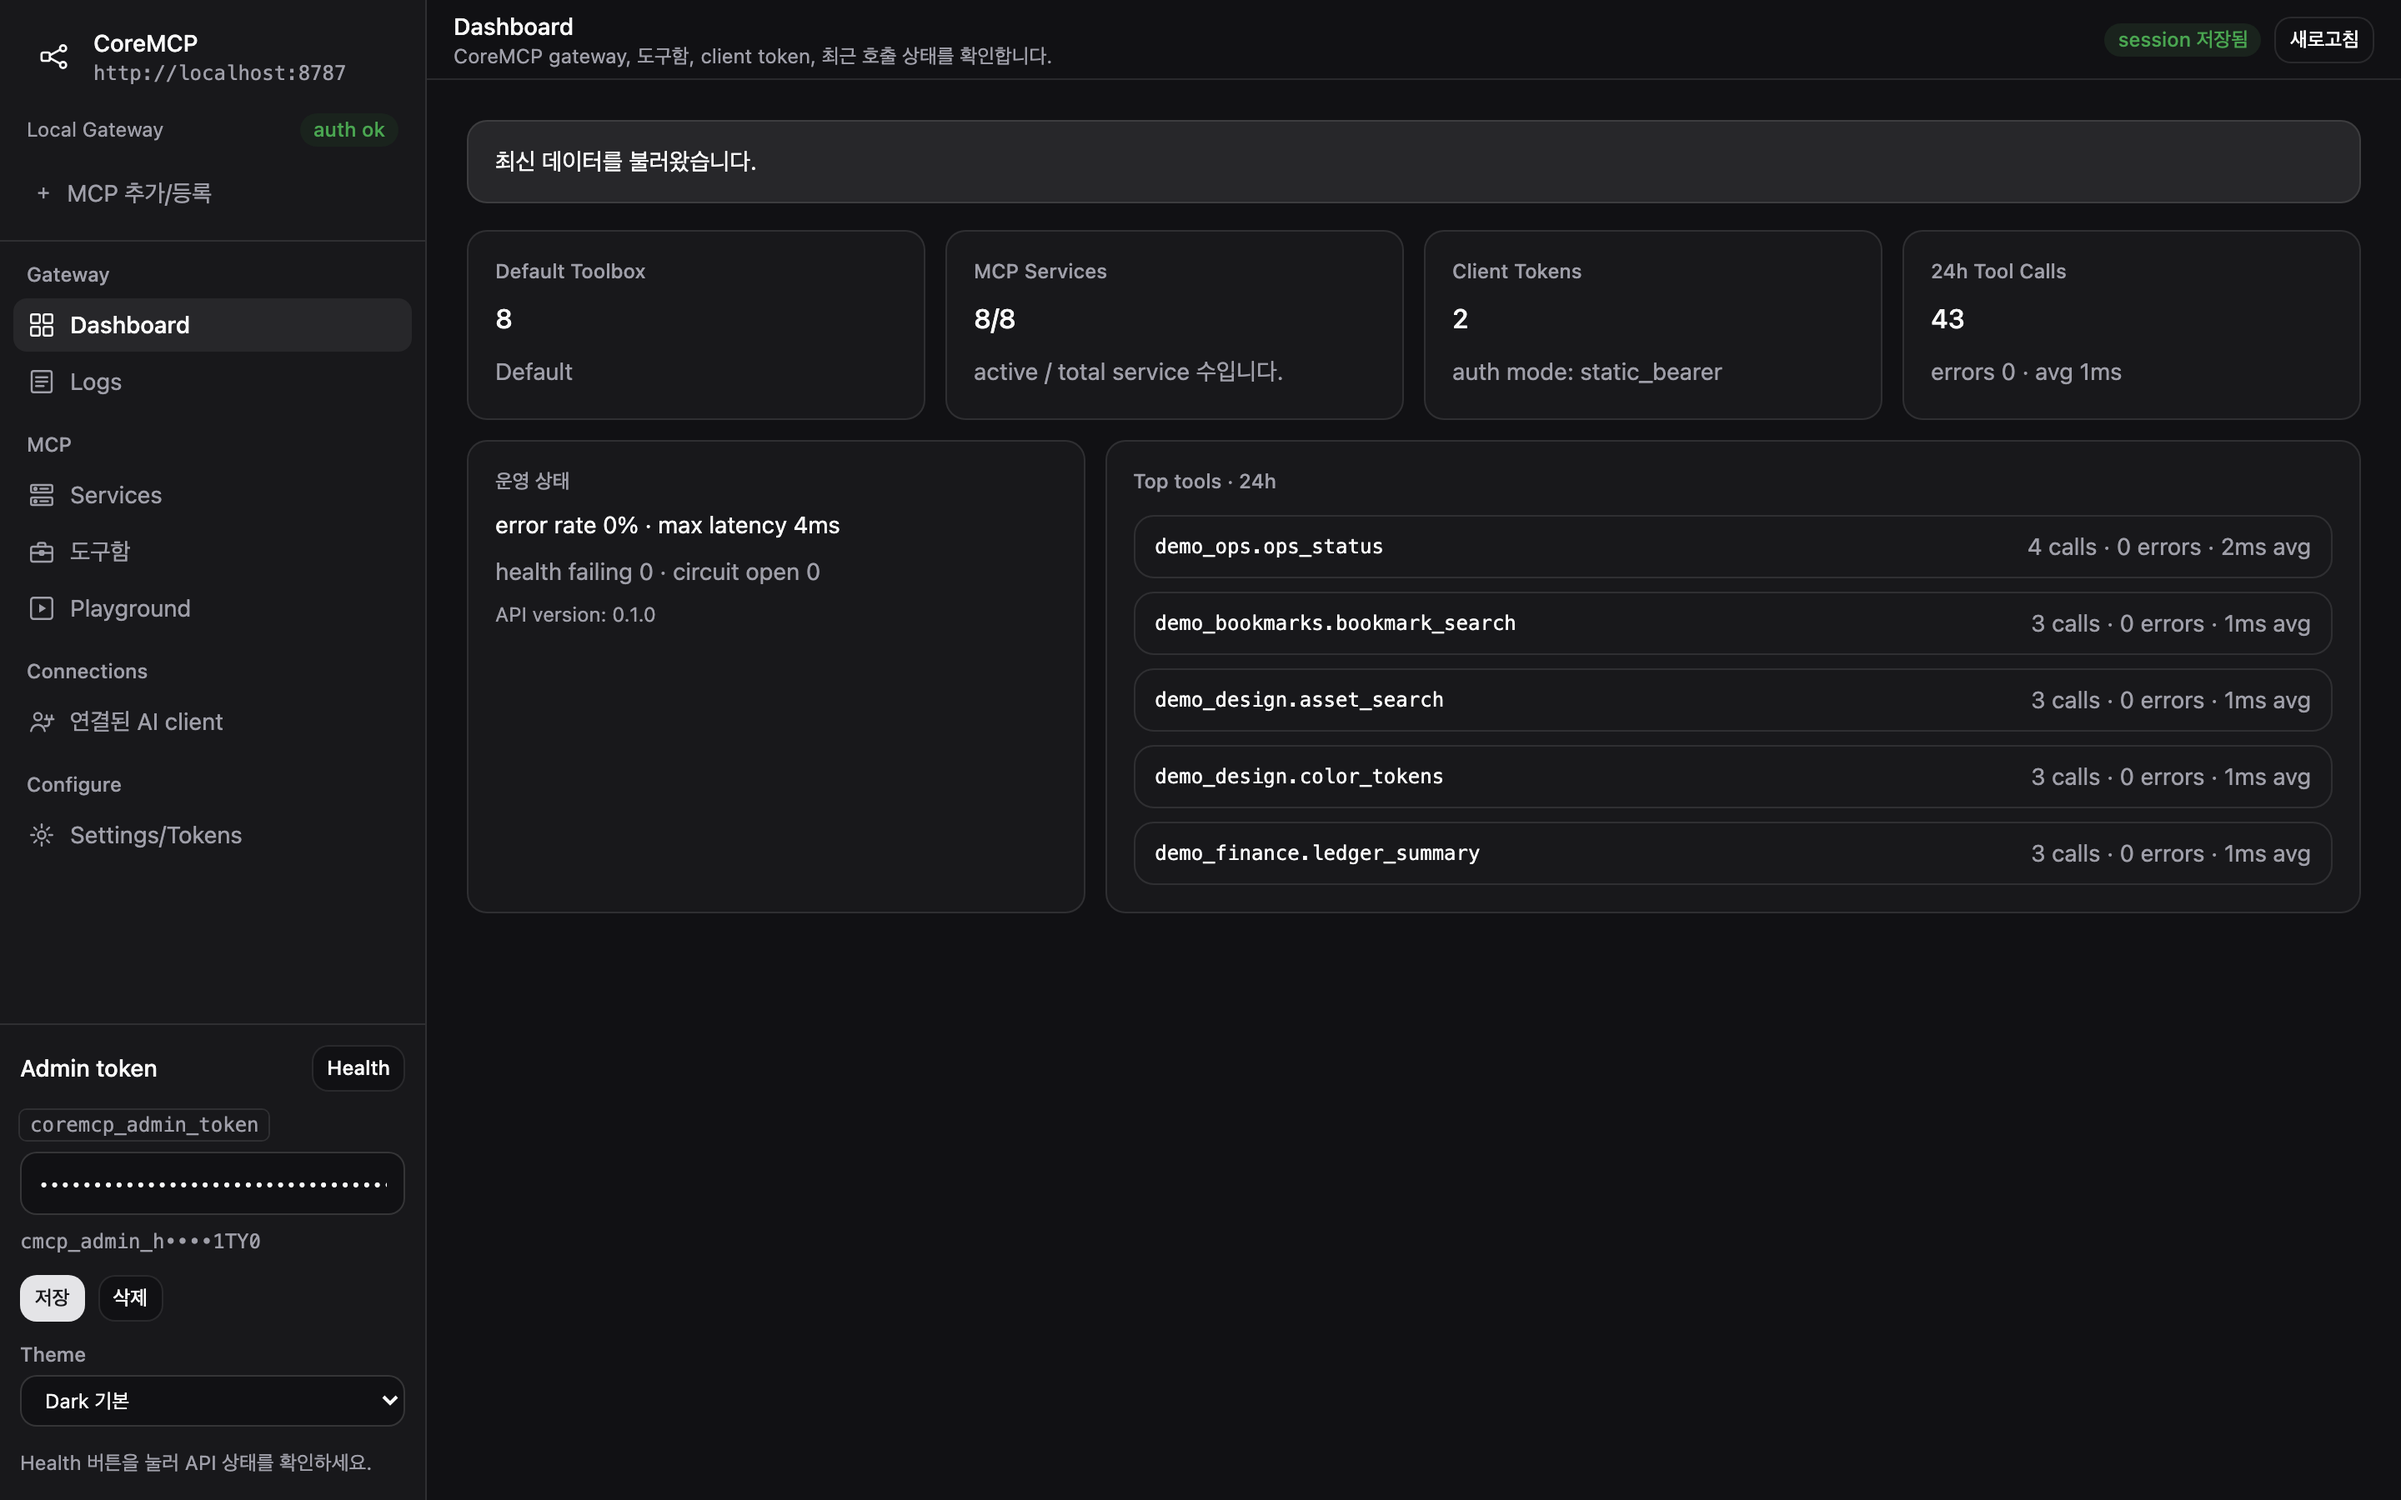
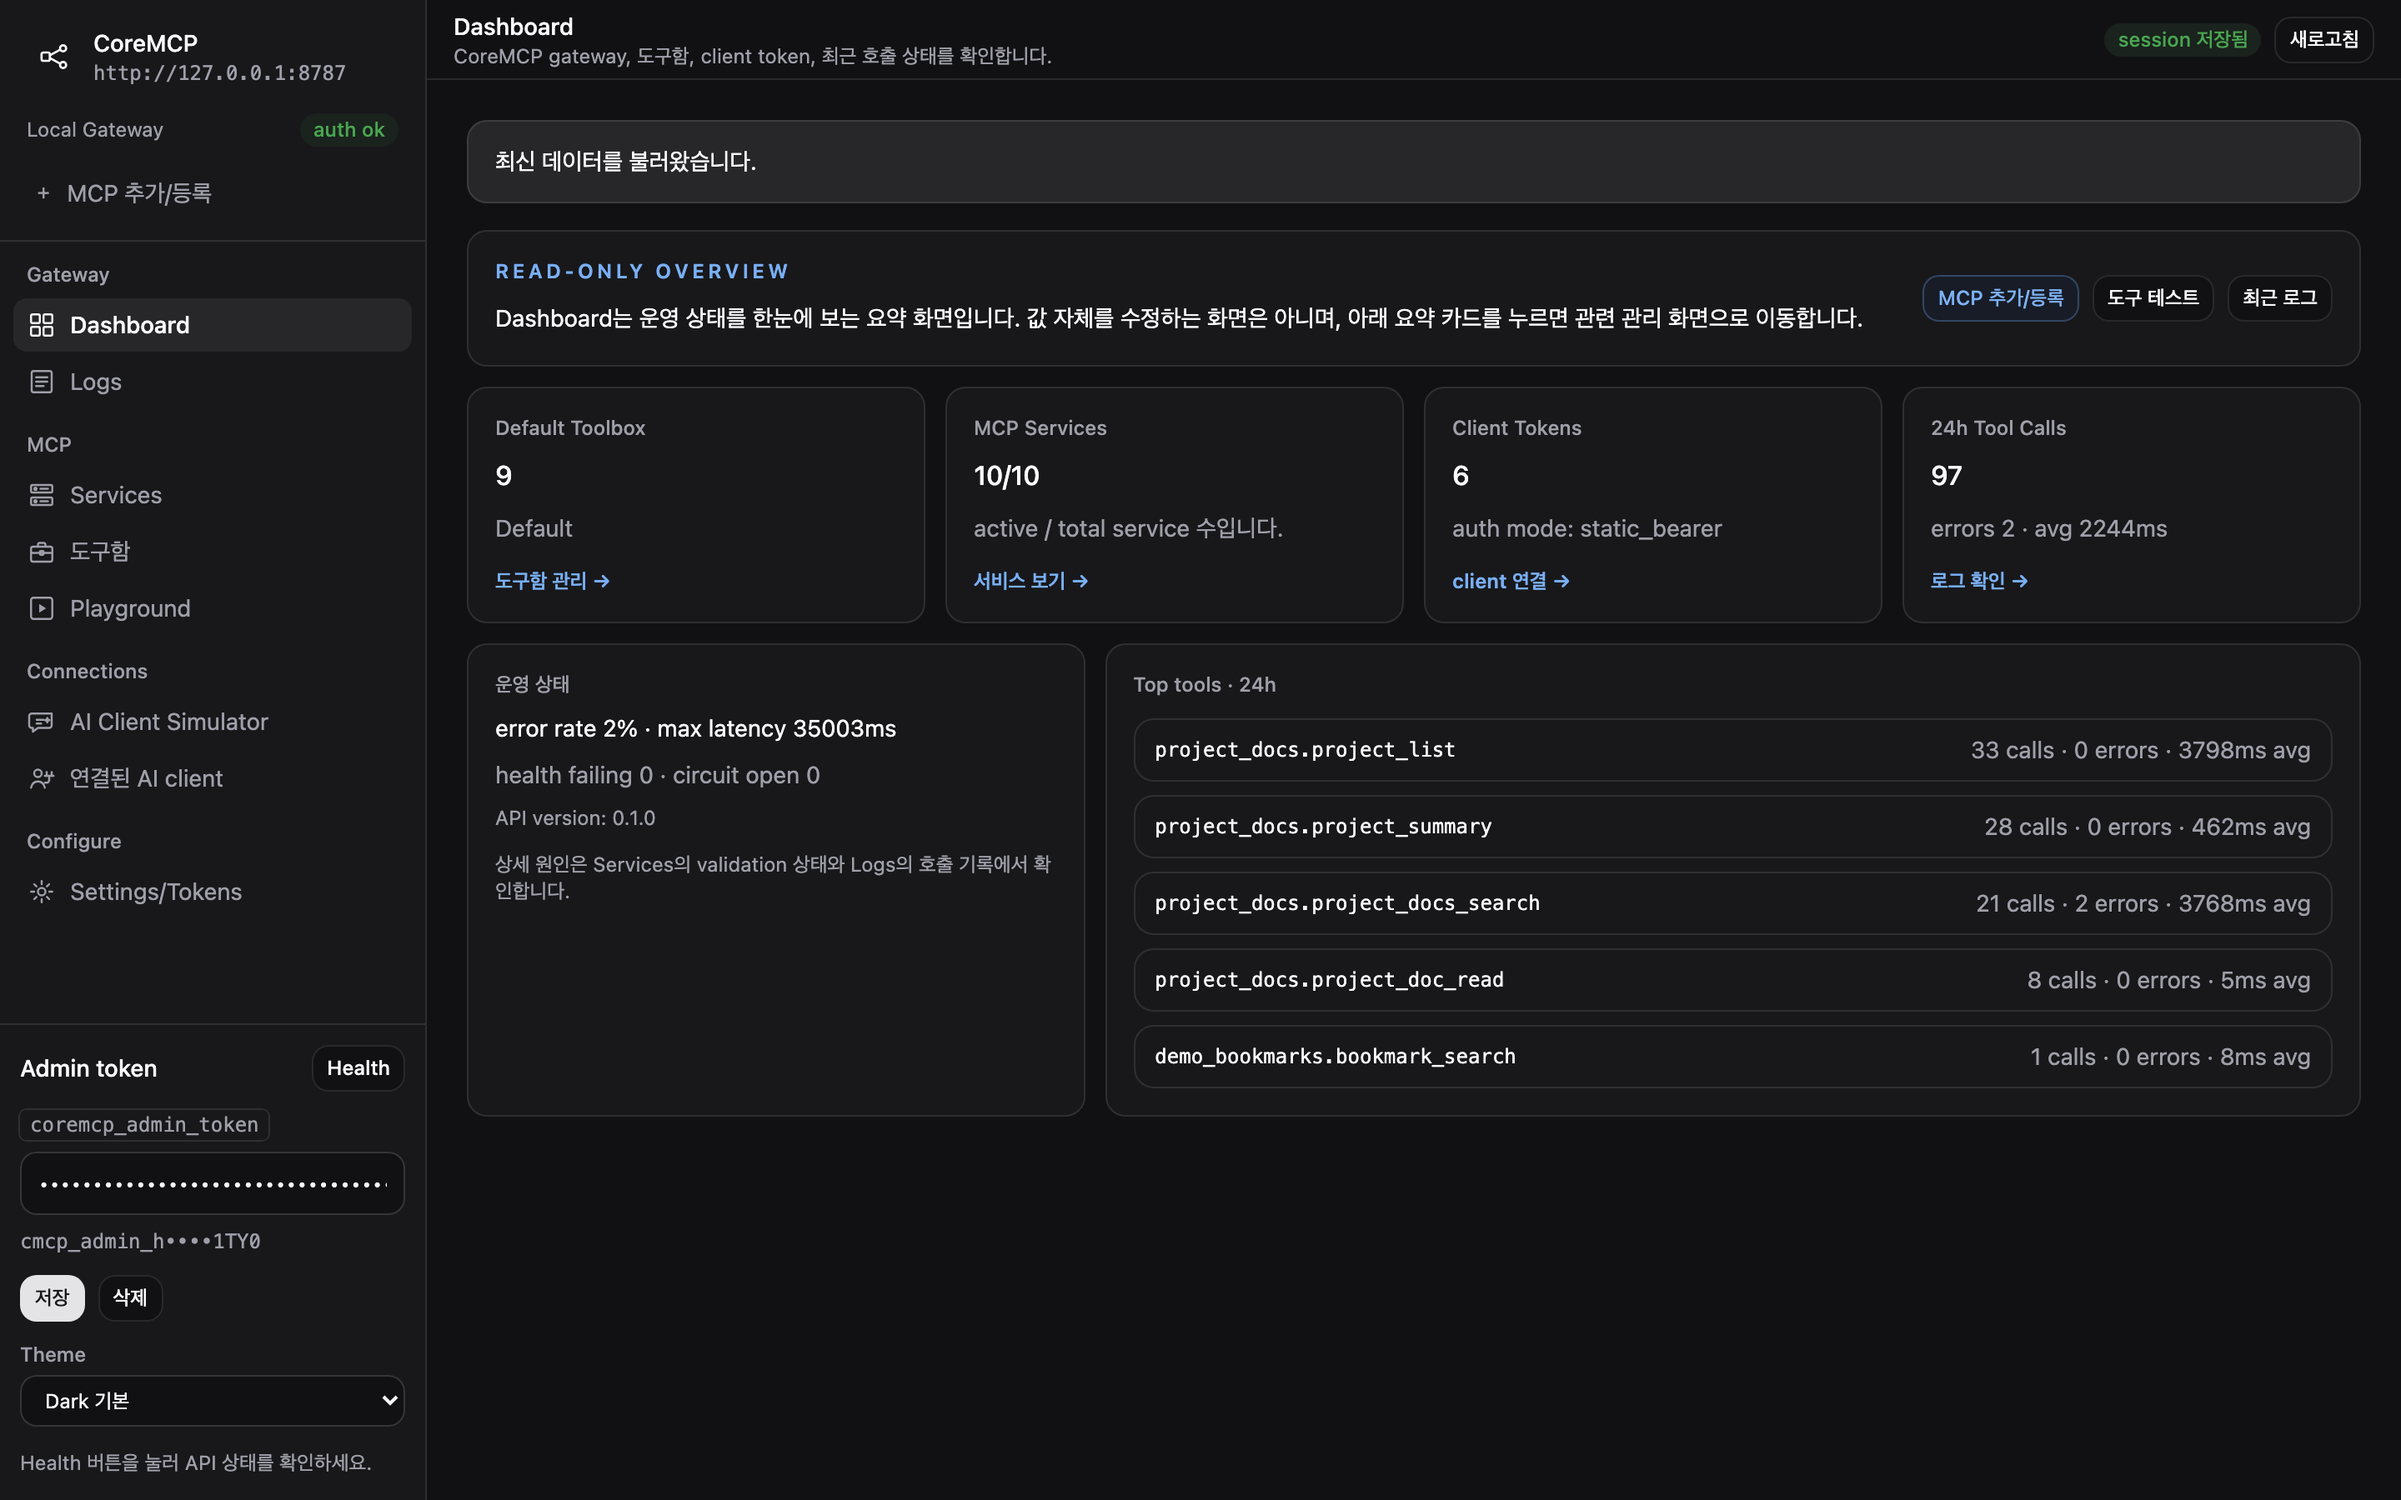
docs: refresh web admin screenshots and README sections
- Capture all 9 web admin pages at 2026-05-20 state with retina 2x viewport.
- Add new AI Client Simulator screen (#9) reflecting the new /simulator route,
  SimulatorIcon in the sidebar, and 3-pane Chat result · MCP Tool trace ·
  Run metadata layout.
- Refresh Dashboard, Clients, Logs, Settings descriptions to match the
  current GUI (READ-ONLY OVERVIEW + KPI deep-links, 3-step Connected
  Clients with MCP endpoint copy, two-pane invocation/audit cards with
  status filter, amber Settings warning).
- Bump Stabilization Batch Notes to 2026-05-20, note project-docs-mcp +
  simulator integration, update pytest count to 206 passed.
- Add icon prefix to top-of-readme sub-sections for consistency with the
  rest of the document.

diff --git a/README.md b/README.md
@@ -103,7 +103,7 @@ CoreMCP는 본인 1명이 Mac mini에서 운영하는 protected MCP gateway다. 
 | 외부환경 검증 필요 | actual macOS reboot recovery, Tailscale CLI install/login/Serve/ACL smoke, real external OAuth client compatibility, 실제 모바일 visual QA, long soak — `make external-env-validate`, `make mobile-qa-checklist`, `make soak-check`로 운영 host에서 결과 기록 |
 | 선택 Polish | Web Admin UX polish, 관측 dashboard/metric tuning, proactive health probe tuning은 지속 개선 대상 |
 
-### 🛠 Stabilization Batch Notes — 2026-05-16
+### 🛠 Stabilization Batch Notes — 2026-05-20
 
 - 권장 commit split은 `dev-plan/implement_20260514_224500.md` 및 후속 dev-plan에 기록되어 있습니다. 이 문서/code patch는 commit split을 **계획만** 하며, 사용자가 `commit/push`를 명시 요청하기 전에는 commit을 만들지 않습니다.
 - 2026-05-15/16 코드 레벨 안정화 사이클에서 다음 항목이 추가 통합되었습니다.
@@ -113,7 +113,8 @@ CoreMCP는 본인 1명이 Mac mini에서 운영하는 protected MCP gateway다. 
   - `coremcp.errors` 의 `CoreMcpError` / `CoreMcpValueError` / `CoreMcpRuntimeError` 공통 base 계층에 9개 도메인 예외를 모두 상속시켜 일관 catch 와 builtin 호환성을 양립시켰습니다.
   - `OAuthService.shutdown()` 을 lifespan teardown 에 연결하고, service mutation / circuit-open 시 `forget_downstream_session` 으로 downstream session cache 를 즉시 무효화합니다. TTL 만료는 reaper 가 별도 청소합니다.
   - `app_factory.create_app` 을 공개 import 경계로 명시하고 transition docstring 을 갱신했습니다.
-- 최신 API 검증: `cd apps/api && uv run pytest -q` **PASS** (159 passed). 최신 전체 smoke 기준: `make test` **PASS** (API 159 + fake-mcp 12 + demo-mcp-suite 21), 이전 검증 기준 `pnpm lint && pnpm build && pnpm test`, `make ui-smoke`, `git diff --check` **PASS**.
+- 2026-05-20 사이클 추가: 실사용 stdio MCP `apps/project-docs-mcp` 신규 (5 read-only tools: project_list / project_docs_list / project_docs_search / project_doc_read / project_summary, path traversal · symlink escape · write 차단). `make project-docs-register` 로 CoreMCP 도구함에 즉시 등록 가능. Web Admin `/simulator` 신규 — Codex CLI `exec` wrapper 챗봇 시뮬레이션 (4 quick-prompt + Chat result + MCP Tool trace + Run metadata 3 분할). 사이드바 아이콘에 `SimulatorIcon` 추가하고 admin-utils `sections` 에 Connections 그룹으로 등록.
+- 최신 API 검증: `cd apps/api && uv run pytest -q` **PASS** (206 passed). 최신 전체 smoke 기준: `make test` **PASS** (API 206 + fake-mcp 12 + demo-mcp-suite 21 + project-docs-mcp), 이전 검증 기준 `pnpm lint && pnpm build && pnpm test`, `make ui-smoke`, `make ui-smoke-p0` (23 cases), `git diff --check` **PASS**.
 - 외부환경 검증 대표 명령:
   - `make external-env-validate`
   - `COREMCP_EXTERNAL_API_URL=https://<host> COREMCP_EXTERNAL_WEB_URL=https://<host> make external-env-validate`
@@ -128,7 +129,7 @@ CoreMCP Web Admin (`http://localhost:3003`) 의 8개 주요 화면입니다. adm
 
 ![Dashboard](coremcp-docs/screenshots/web-admin/01-dashboard.png)
 
-운영 한눈 보기 — KPI 4 카드(Default Toolbox 항목 수, MCP Services active/total, Client Tokens 활성 수, 최근 24h Tool Calls + 평균 latency)와 운영 상태(error rate, max latency, health failing, circuit open) + `Top tools 24h` 로 가장 많이 호출된 도구를 표시합니다. 사이드바 하단 `Health` 버튼으로 `GET /health` 즉시 점검 가능합니다.
+운영 한눈 보기 — 상단 **`READ-ONLY OVERVIEW`** 안내 + 자주 쓰는 3 액션 바로가기(MCP 추가/등록 · 도구 테스트 · 최근 로그). **KPI 4 카드** 각각 도메인 deep-link 포함(Default Toolbox → 도구함 관리, MCP Services active/total → 서비스 보기, Client Tokens → client 연결, 24h Tool Calls + 평균 latency + errors → 로그 확인). **운영 상태** 패널(error rate · max latency · health failing · circuit open) + **Top tools 24h** 호출 빈도 순위(예: `project_docs.project_list 33 calls`). 사이드바 하단 `Health` 버튼으로 `GET /health` 즉시 점검.
 
 ### 2. Services `/services`
 
@@ -146,7 +147,7 @@ CoreMCP Web Admin (`http://localhost:3003`) 의 8개 주요 화면입니다. adm
 
 ![Toolbox](coremcp-docs/screenshots/web-admin/04-toolbox.png)
 
-Default 도구함의 가시 상태 — 등록된 서비스마다 service-level enable/disable 토글과 per-tool count 색 핀(callable / visible_only / hidden / disabled)을 표시합니다. 토글 변경은 즉시 `notifications/tools/list_changed` SSE 로 fan-out 되어 다른 탭의 Playground 도구 목록까지 자동 동기화됩니다.
+Default 도구함의 가시 상태 — 9 service (8 demo + `project_docs`) 마다 `service enabled` + status 배지, `Disable service` / `Remove` 버튼, per-tool count 색 핀(callable / visible_only / hidden / disabled tools). 토글 변경은 즉시 `notifications/tools/list_changed` SSE 로 fan-out 되어 다른 탭의 Playground 도구 목록까지 자동 동기화됩니다.
 
 ### 5. Playground `/playground`
 
@@ -158,19 +159,25 @@ Default 도구함의 가시 상태 — 등록된 서비스마다 service-level e
 
 ![Connected Clients](coremcp-docs/screenshots/web-admin/06-clients.png)
 
-외부 AI agent (Codex CLI exec / Claude Code / Cursor / ChatGPT / OpenClaw 등) 를 CoreMCP에 연결할 때 사용. `등록+Token` 으로 client_type / client_name 입력 후 client token 1회 발급(`cmcp_client_…`), `One-time Token` 으로 OAuth 미지원 client 용 10분 TTL 1회용 prompt+token 발급, `Revoke` 로 즉시 차단(다른 client 영향 0). 모든 발급/회수는 audit 기록됩니다.
+외부 AI agent (Codex CLI exec / Claude Code / Cursor / ChatGPT / OpenClaw 등) 를 CoreMCP 에 연결할 때 사용 — 상단 **3-step 안내** (1. AI CLIENT 선택 → 2. CLIENT TOKEN 발급 → 3. AGENT 도구함 사용), `Client name` + `Client type` 입력 후 `등록+Token 발급` 또는 OAuth 미지원 client 용 `One-time Token` (10 분 TTL), **MCP endpoint URL + `Copy config`** 버튼, Codex CLI exec helper 코드 블록 (`make codex-install`), **4 가이드 카드** (Codex CLI exec / Claude Code · bearer / OAuth client / OpenClaw · one-time token). 등록된 client 목록 + 개별 `Revoke`. 모든 발급/회수는 audit 기록됩니다.
 
 ### 7. Logs `/logs`
 
 ![Logs](coremcp-docs/screenshots/web-admin/07-logs.png)
 
-최근 tool invocation 과 audit event 를 단일 화면에서 — invocation 은 method/exposed_tool_name/status/latency_ms/created_at, audit 은 action(`service.create` / `service.validate.success` / `policy.deny` / `ssrf.block` / `credential.put` 등)/resource_type/resource_id/request_id 표시. `X-Request-ID` 가 invocation 과 audit cross-link 됩니다. metadata 에 admin/client token 노출 0건 (structlog `redact_sensitive_data` processor + 회귀 테스트로 보장).
+**Tool invocations** 와 **Audit events** 두 분할 카드 리스트 — 우측 상단 status filter dropdown(`All events` / `success` / `failure` / `policy_denied` 등) + 검색. invocation 카드: request_id / direction / status (success·failure 색 핀) / error_code / downstream warm·cold / latency_ms / created_at. audit 카드: action(`service.create` / `service.validate.success` / `policy.deny` / `ssrf.block` / `credential.put` 등) / resource_type / resource_id / request_id. `X-Request-ID` 기준 invocation ↔ audit cross-link. metadata 에 admin/client token 노출 0건 (structlog `redact_sensitive_data` + 회귀 테스트로 보장).
 
 ### 8. Settings / Tokens `/settings`
 
 ![Settings / Tokens](coremcp-docs/screenshots/web-admin/08-settings.png)
 
-admin token 은 항상 마스킹 표시 (`cmcp_admin_••••`) — 실제 값은 sessionStorage 에만, 절대 응답·로그에 노출되지 않습니다. 전체 client token 리스트(prefix + scopes + status + last_used_at)와 환경 meta(auth_mode / secret_backend / cache_backend / app_version) 표시. Revoke 는 Settings 와 Connected Clients 양쪽에서 가능합니다.
+상단 **amber 주의 안내** — *"admin token 은 브라우저 sessionStorage 에만 저장됩니다. client token 평문은 발급 응답에서 1 회만 표시됩니다."* Admin Token 섹션은 항상 마스킹 (`cmcp_admin_h••••1TY0`) — 실제 값은 sessionStorage 에만, 응답·로그에 노출되지 않습니다. 활성 client token 리스트(token_prefix + status + external_connection_id) + 개별 Revoke. Revoke 는 Settings 와 Connected Clients 양쪽에서 가능합니다.
+
+### 9. AI Client Simulator `/simulator`
+
+![AI Client Simulator](coremcp-docs/screenshots/web-admin/09-simulator.png)
+
+Codex CLI `exec` wrapper 를 실제로 실행해 외부 AI agent 가 CoreMCP 도구함을 어떻게 사용하는지 챗봇처럼 시뮬레이션 — 4 개 quick-prompt 칩(전체 프로젝트 정리 / 대표 README 요약 / MCP 문서 검색 / 도구함 확인) 또는 자유 Prompt 입력 → `Codex 시뮬레이션 실행` → Codex 가 `/mcp tools/list + tools/call` 호출 → **Chat result**(Codex 최종 답변) + **Tool trace**(MCP 호출 흐름) + **Run metadata**(exit code / duration / stdout) 3 분할로 결과 확인. Timeout 도 페이지에서 조절(기본 120초).
 
 ---
 
